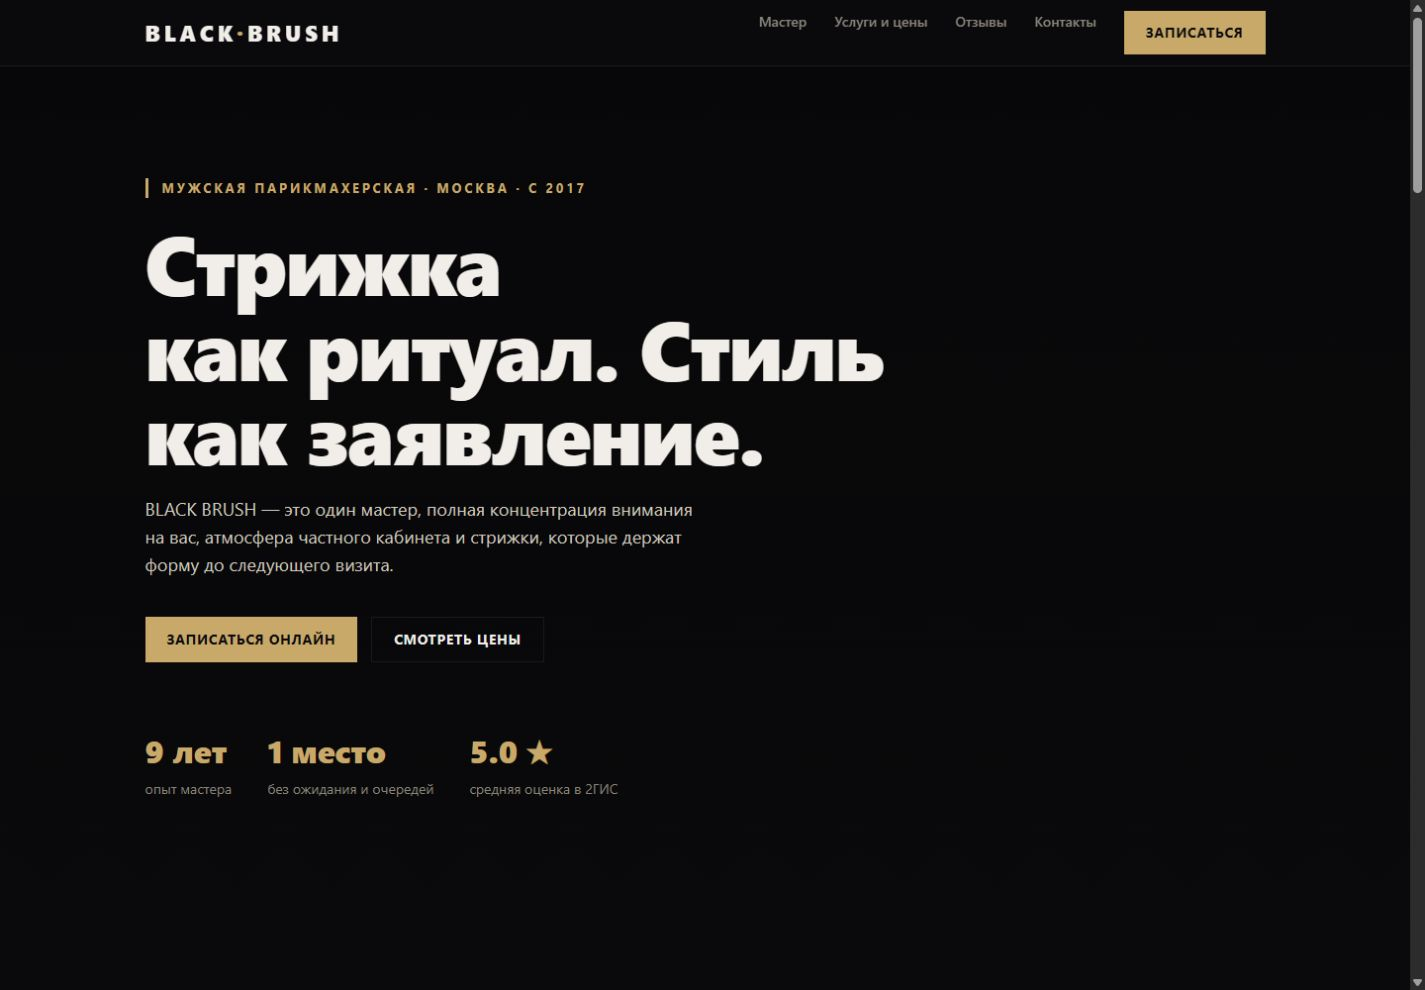
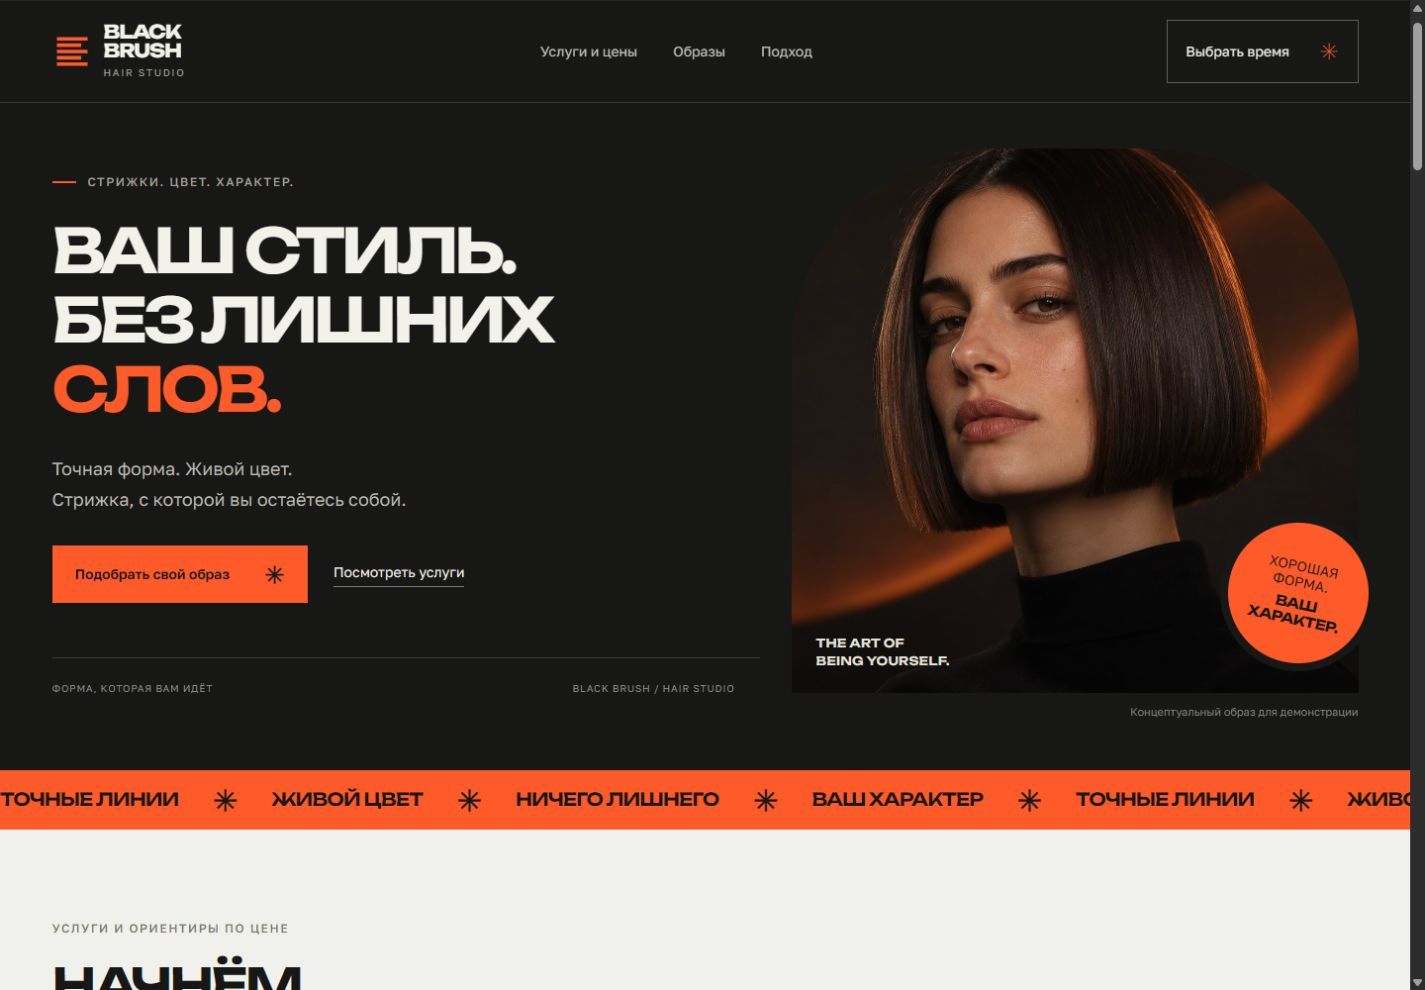
Publish TwK website portfolio hub with six projects

diff --git a/index.html b/index.html
@@ -9,9 +9,9 @@
  <a class="preview forma" href="https://twkru.github.io/forma-design-demo/" target="_blank" rel="noopener" aria-label="Открыть FORMA в новой вкладке"><div class="browser-bar" aria-hidden="true"><span></span><span></span><span></span><i>FORMA</i></div><img src="assets/forma.jpg" alt="Первый экран сайта FORMA" width="1440" height="1000" loading="lazy"><span class="preview-action">Посмотреть сайт</span></a>
  <div class="project-top"><span>Креативный концепт</span><span class="demo-tag">Демопроект</span></div><h3>FORMA</h3><p>Выразительная типографика, хромированная графика и интерактивная демопрограмма.</p><ul class="tags"><li>Анимация</li><li>Фильтры</li><li>Деморегистрация</li></ul><div class="project-actions"><a href="https://twkru.github.io/forma-design-demo/" target="_blank" rel="noopener">Открыть сайт<span class="sr-only"> FORMA в новой вкладке</span></a><button class="copy" type="button" data-url="https://twkru.github.io/forma-design-demo/" aria-label="Скопировать ссылку на FORMA">Копировать ссылку</button></div></article><article class="project" data-category="business" data-search="Маяк Шиномонтаж Услуги, прайс и удобная заявка с данными автомобиля в WhatsApp.">
  <a class="preview mayak" href="https://twkru.github.io/workshop-demo-mayak/" target="_blank" rel="noopener" aria-label="Открыть Маяк в новой вкладке"><div class="browser-bar" aria-hidden="true"><span></span><span></span><span></span><i>Маяк</i></div><img src="assets/mayak.jpg" alt="Первый экран сайта Маяк" width="1440" height="1000" loading="lazy"><span class="preview-action">Посмотреть сайт</span></a>
- <div class="project-top"><span>Шиномонтаж</span><span class="demo-tag">Демопроект</span></div><h3>Маяк</h3><p>Услуги, прайс и удобная заявка с данными автомобиля в WhatsApp.</p><ul class="tags"><li>Прайс</li><li>Заявка</li><li>Проезд</li></ul><div class="project-actions"><a href="https://twkru.github.io/workshop-demo-mayak/" target="_blank" rel="noopener">Открыть сайт<span class="sr-only"> Маяк в новой вкладке</span></a><button class="copy" type="button" data-url="https://twkru.github.io/workshop-demo-mayak/" aria-label="Скопировать ссылку на Маяк">Копировать ссылку</button></div></article><article class="project" data-category="business" data-search="BLACK BRUSH Парикмахерская Тёмная палитра, крупные фотографии и подача услуг салона.">
- <a class="preview brush" href="https://twkru.github.io/showcase.github.io/" target="_blank" rel="noopener" aria-label="Открыть BLACK BRUSH в новой вкладке"><div class="browser-bar" aria-hidden="true"><span></span><span></span><span></span><i>BLACK BRUSH</i></div><img src="assets/brush.jpg" alt="Первый экран сайта BLACK BRUSH" width="1440" height="1000" loading="lazy"><span class="preview-action">Посмотреть сайт</span></a>
- <div class="project-top"><span>Парикмахерская</span><span class="demo-tag">Демопроект</span></div><h3>BLACK BRUSH</h3><p>Тёмная палитра, крупные фотографии и подача услуг салона.</p><ul class="tags"><li>Услуги</li><li>Галерея</li><li>Контакты</li></ul><div class="project-actions"><a href="https://twkru.github.io/showcase.github.io/" target="_blank" rel="noopener">Открыть сайт<span class="sr-only"> BLACK BRUSH в новой вкладке</span></a><button class="copy" type="button" data-url="https://twkru.github.io/showcase.github.io/" aria-label="Скопировать ссылку на BLACK BRUSH">Копировать ссылку</button></div></article><article class="project" data-category="business" data-search="Техника дома Ремонт техники Клиент выбирает технику, описывает поломку и собирает сообщение мастеру.">
+ <div class="project-top"><span>Шиномонтаж</span><span class="demo-tag">Демопроект</span></div><h3>Маяк</h3><p>Услуги, прайс и удобная заявка с данными автомобиля в WhatsApp.</p><ul class="tags"><li>Прайс</li><li>Заявка</li><li>Проезд</li></ul><div class="project-actions"><a href="https://twkru.github.io/workshop-demo-mayak/" target="_blank" rel="noopener">Открыть сайт<span class="sr-only"> Маяк в новой вкладке</span></a><button class="copy" type="button" data-url="https://twkru.github.io/workshop-demo-mayak/" aria-label="Скопировать ссылку на Маяк">Копировать ссылку</button></div></article><article class="project" data-category="business" data-search="BLACK BRUSH Парикмахерская Графит, оранжевые акценты, подборка образов и выбор услуги с заявкой в WhatsApp.">
+ <a class="preview brush" href="https://twkru.github.io/showcase.github.io/" target="_blank" rel="noopener" aria-label="Открыть BLACK BRUSH в новой вкладке"><div class="browser-bar" aria-hidden="true"><span></span><span></span><span></span><i>BLACK BRUSH</i></div><img src="assets/brush.jpg?v=20261123" alt="Первый экран сайта BLACK BRUSH" width="1440" height="1000" loading="lazy"><span class="preview-action">Посмотреть сайт</span></a>
+ <div class="project-top"><span>Парикмахерская</span><span class="demo-tag">Демопроект</span></div><h3>BLACK BRUSH</h3><p>Графит, оранжевые акценты, подборка образов и выбор услуги с заявкой в WhatsApp.</p><ul class="tags"><li>Услуги</li><li>Галерея</li><li>Контакты</li></ul><div class="project-actions"><a href="https://twkru.github.io/showcase.github.io/" target="_blank" rel="noopener">Открыть сайт<span class="sr-only"> BLACK BRUSH в новой вкладке</span></a><button class="copy" type="button" data-url="https://twkru.github.io/showcase.github.io/" aria-label="Скопировать ссылку на BLACK BRUSH">Копировать ссылку</button></div></article><article class="project" data-category="business" data-search="Техника дома Ремонт техники Клиент выбирает технику, описывает поломку и собирает сообщение мастеру.">
  <a class="preview repair" href="https://twkru.github.io/local-service-demos/repair/" target="_blank" rel="noopener" aria-label="Открыть Техника дома в новой вкладке"><div class="browser-bar" aria-hidden="true"><span></span><span></span><span></span><i>Техника дома</i></div><img src="assets/repair.jpg" alt="Первый экран сайта Техника дома" width="1440" height="1000" loading="lazy"><span class="preview-action">Посмотреть сайт</span></a>
  <div class="project-top"><span>Ремонт техники</span><span class="demo-tag">Демопроект</span></div><h3>Техника дома</h3><p>Клиент выбирает технику, описывает поломку и собирает сообщение мастеру.</p><ul class="tags"><li>Выбор услуги</li><li>WhatsApp</li><li>Вопросы</li></ul><div class="project-actions"><a href="https://twkru.github.io/local-service-demos/repair/" target="_blank" rel="noopener">Открыть сайт<span class="sr-only"> Техника дома в новой вкладке</span></a><button class="copy" type="button" data-url="https://twkru.github.io/local-service-demos/repair/" aria-label="Скопировать ссылку на Техника дома">Копировать ссылку</button></div></article><article class="project" data-category="business" data-search="Свежо Химчистка мебели Спокойный визуальный стиль и заявка с типом мебели и деталями загрязнения.">
  <a class="preview cleaning" href="https://twkru.github.io/local-service-demos/cleaning/" target="_blank" rel="noopener" aria-label="Открыть Свежо в новой вкладке"><div class="browser-bar" aria-hidden="true"><span></span><span></span><span></span><i>Свежо</i></div><img src="assets/cleaning.jpg" alt="Первый экран сайта Свежо" width="1440" height="1000" loading="lazy"><span class="preview-action">Посмотреть сайт</span></a>
